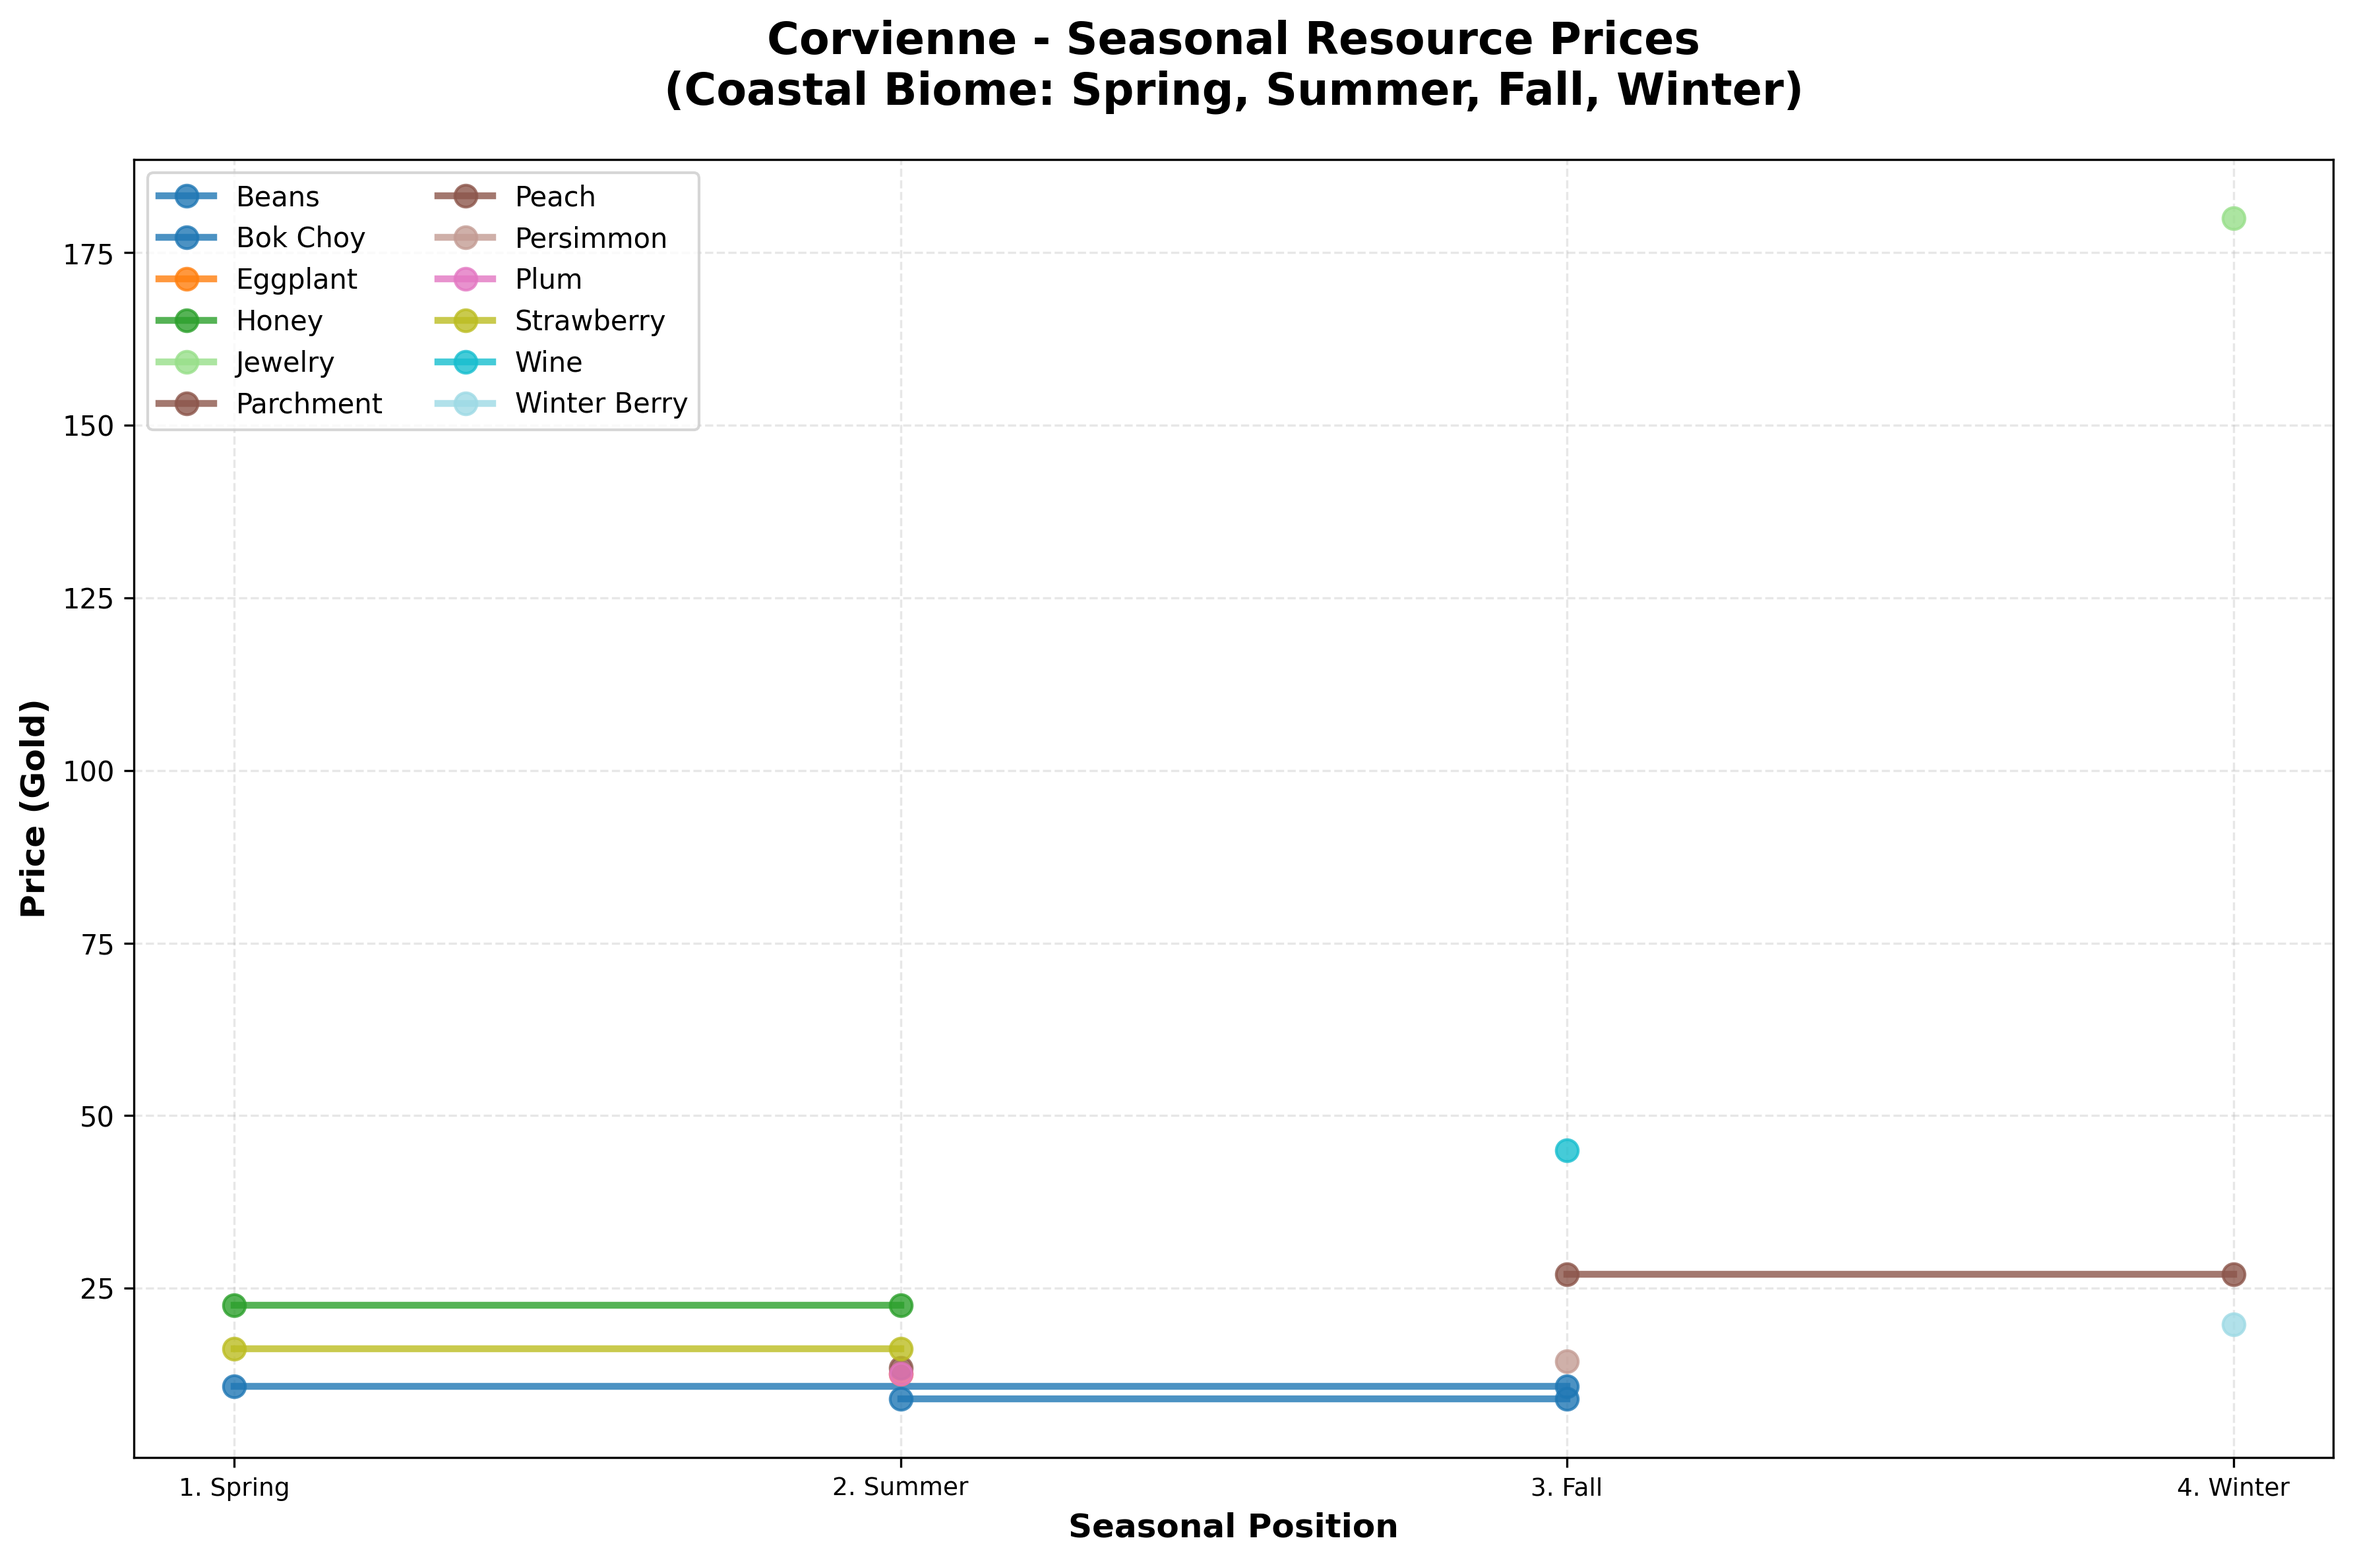
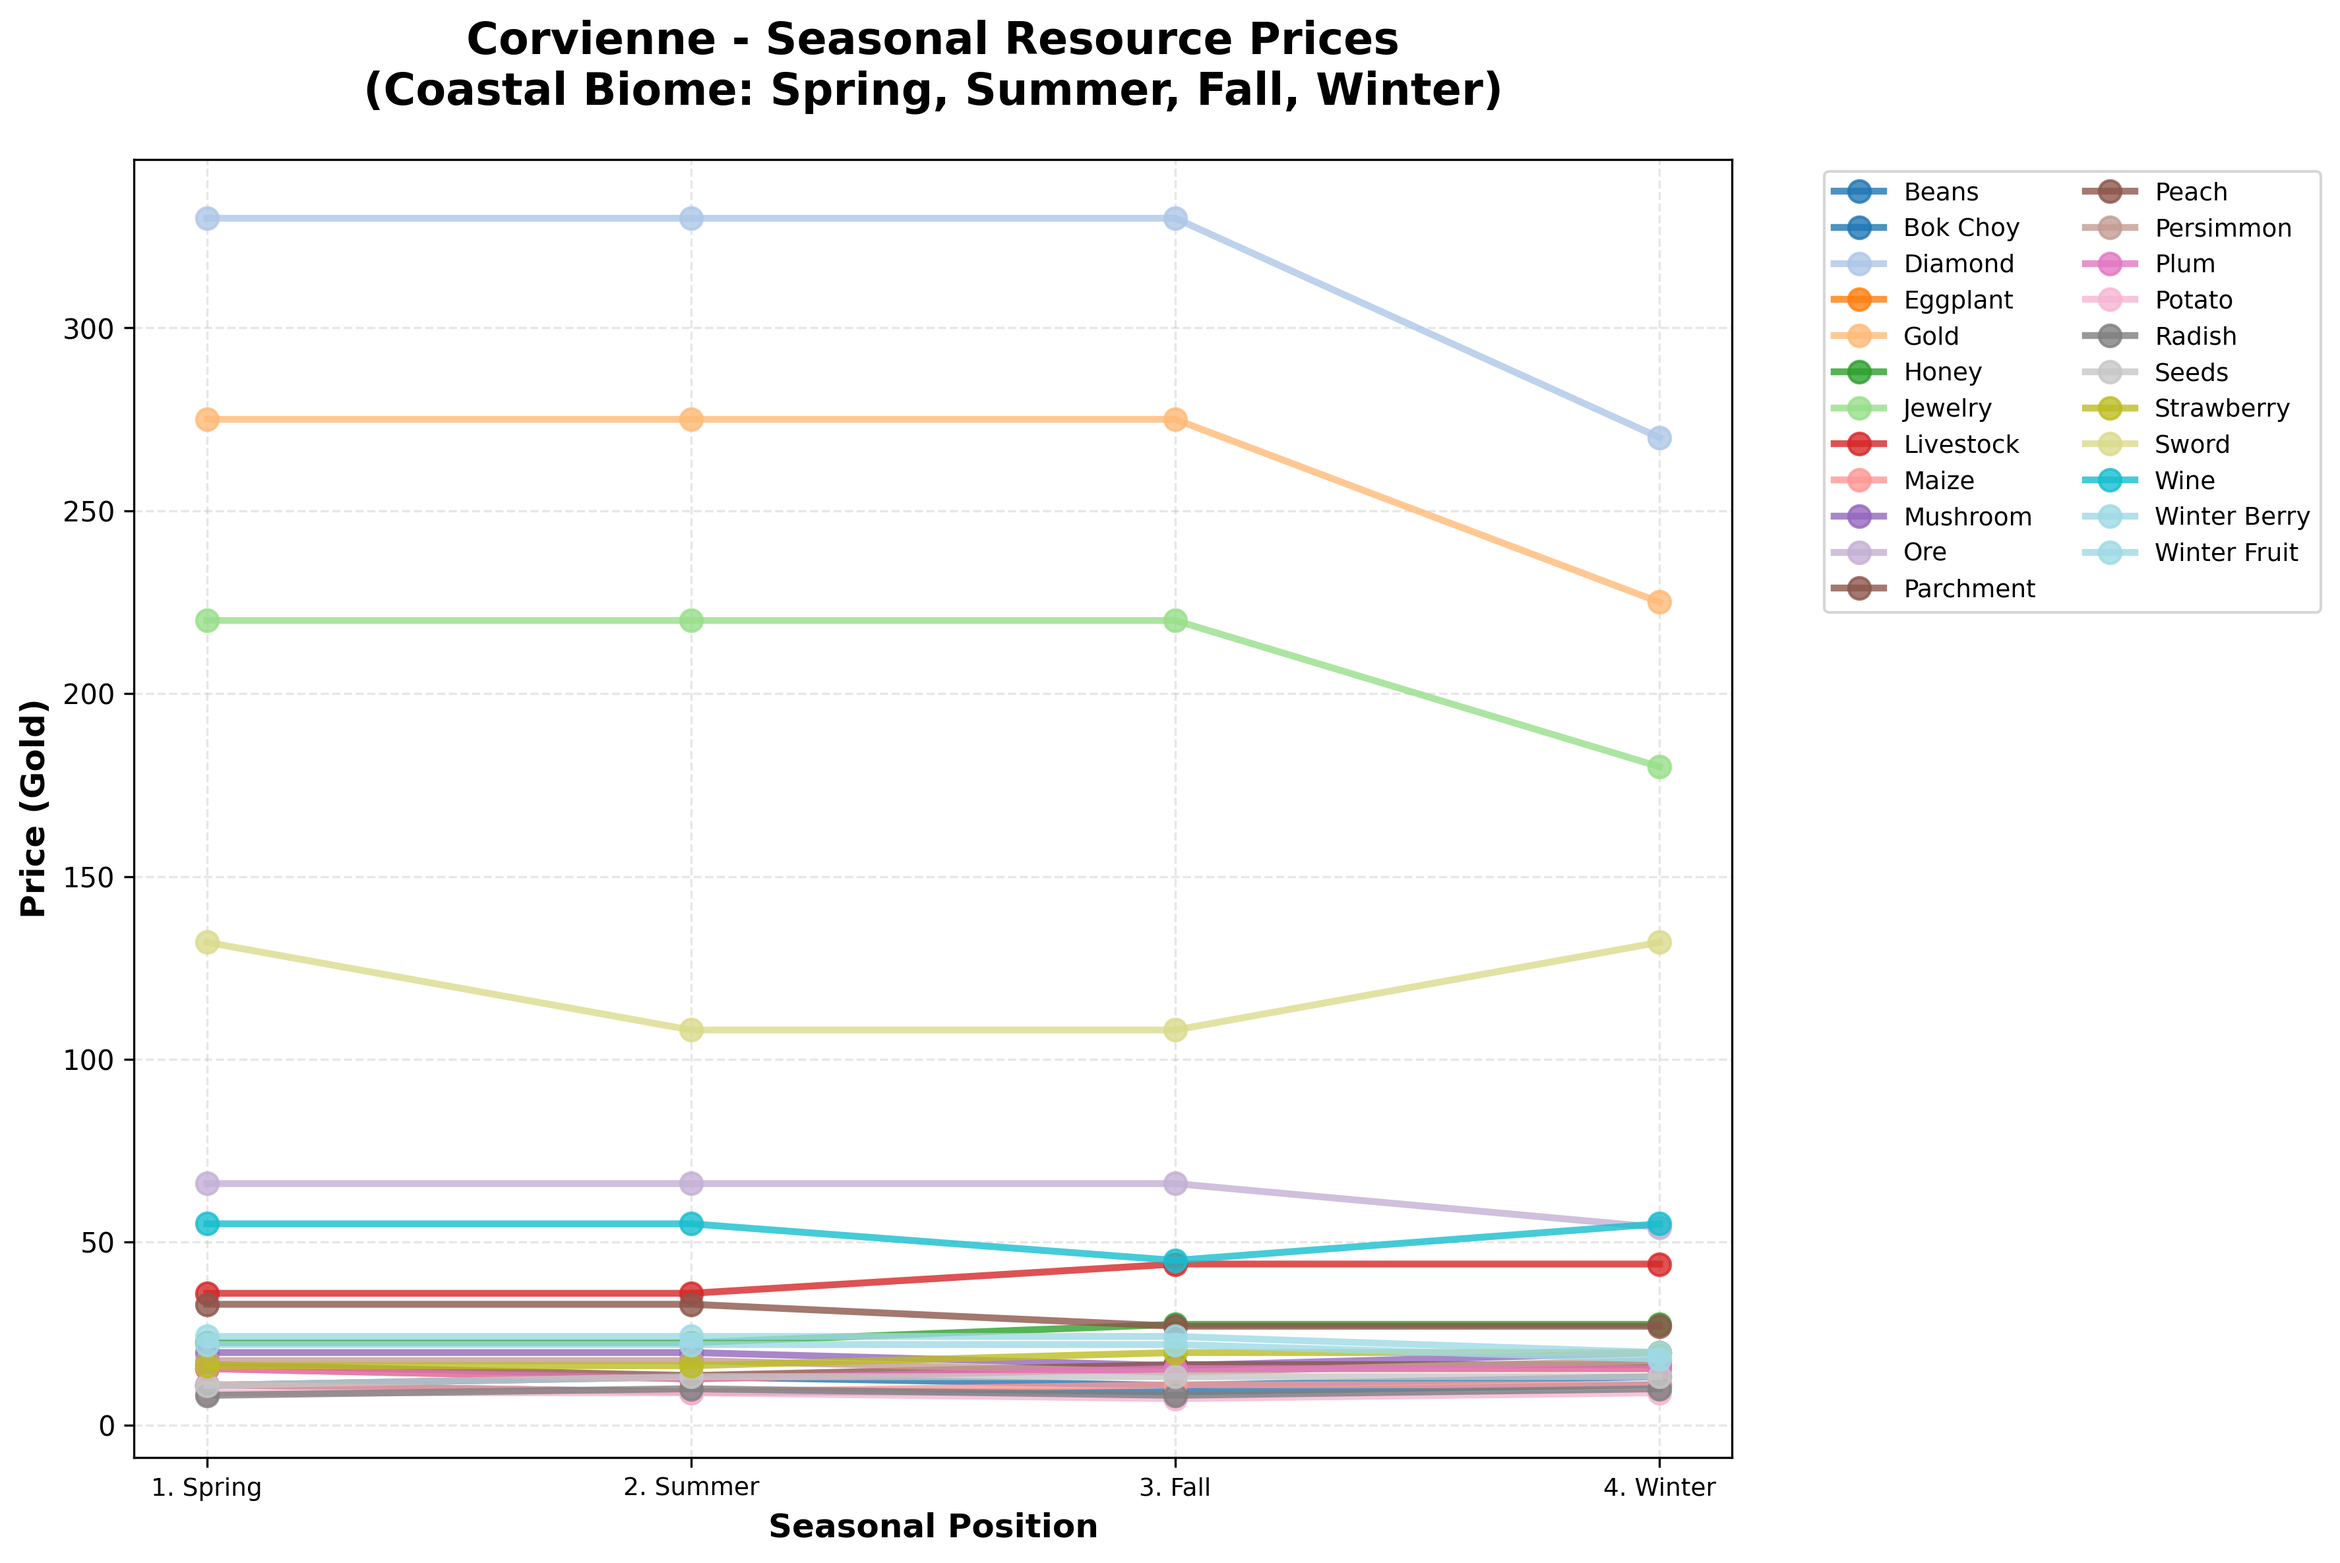
adding analysis

diff --git a/generate_resource_charts.py b/generate_resource_charts.py
@@ -397,15 +397,8 @@ def chart_6_city_seasonal_prices(resources: Dict, biome_seasons: Dict, output_di
         
         print(f"    Using seasonal sequence: {seasonal_sequence}")
         
-        # Find resources available in this city (those with this biome in local_biomes)
-        available_resources = {}
-        for res_name, res_data in resources.items():
-            if biome in res_data.get('local_biomes', []):
-                available_resources[res_name] = res_data
-        
-        if not available_resources:
-            print(f"  ⚠ No resources available in {city_name}")
-            continue
+        # All resources are available in all cities (matching game code)
+        available_resources = resources
         
         # Create the chart
         fig, ax = plt.subplots(figsize=(12, 8))
